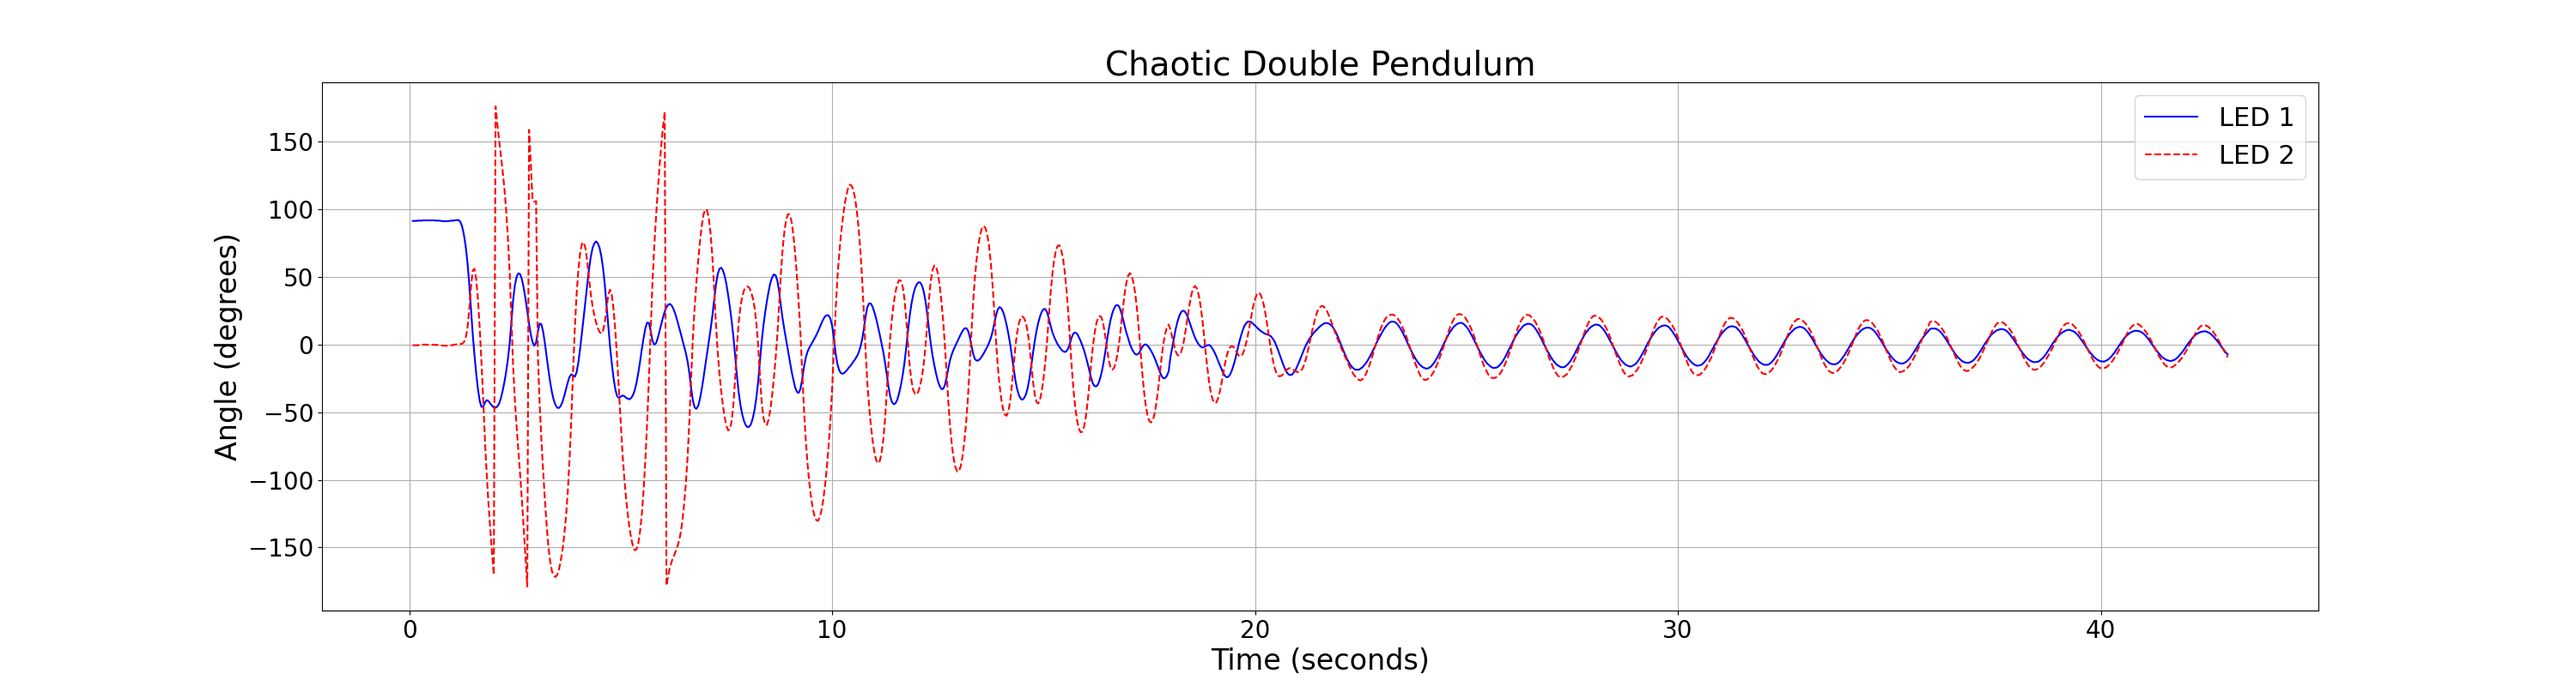
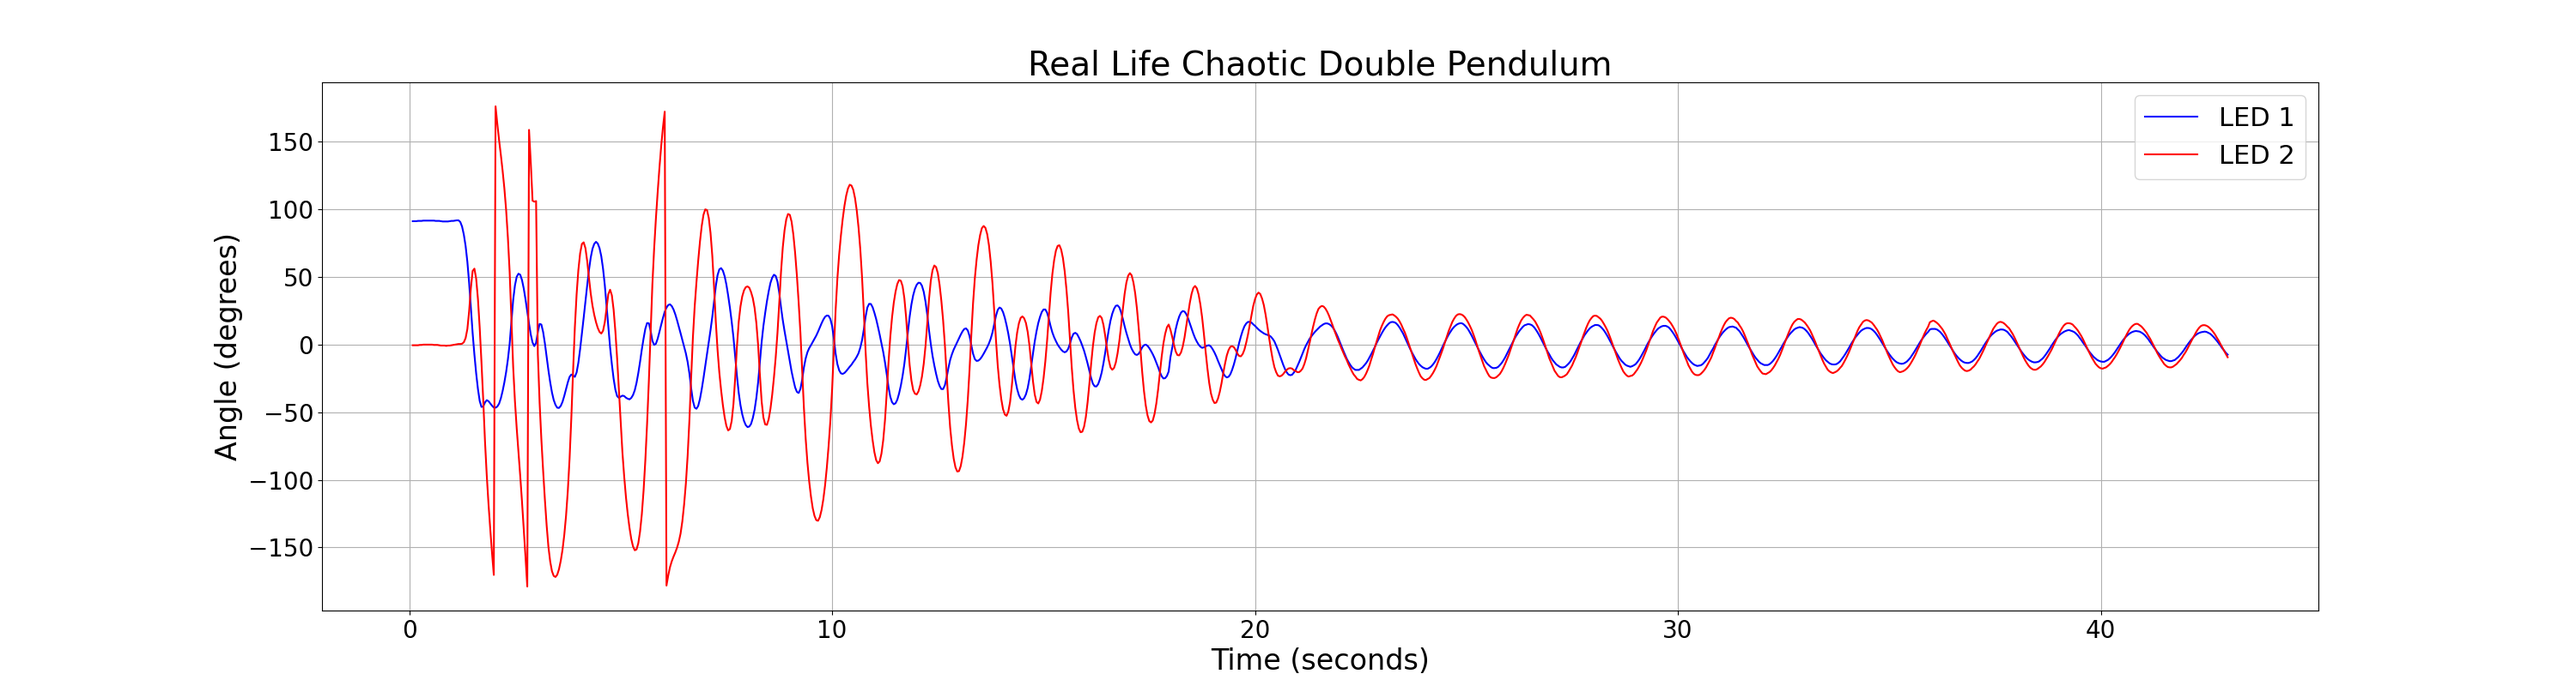
Changed the graphs to look pretty!

Changed region(s): [[0.403, 0.0625, 0.62, 0.125]]

diff --git a/Verification/verificiation.py b/Verification/verificiation.py
@@ -7,7 +7,7 @@ from typing import Tuple, List, NamedTuple, Dict, Any
 from scipy.optimize import curve_fit
 
 CONFIG = {
-    "title": "Verification of the Simulation with Respect to Real Life",
+    "title": "Fourier-based Deviation of the Simulation with Respect to Real Life",
     "path_to_data": "C:\\Users\\adamf\\Downloads\\",
     "sim_data_name": "simulation_45df02e102a7b311c45a387d97d3856f720a1adcfb1d30d1a41ff66d88e170a0.txt",
     "vid_data_name": "DSC_0058.txt",
@@ -143,13 +143,15 @@ def plot_deviation(arm1: List[PendulumData], arm2: List[PendulumData],
     vid_fit2 = fit_and_extend(vid_t2, vid_ang2, common_t)
     sim_fit2 = fit_and_extend(sim_t2, sim_ang2, common_t)
 
-    plt.figure(figsize=(24, 6))
+    plt.figure(figsize=(30, 8))
     plt.plot(common_t, vid_fit1 - sim_fit1, label="Arm 1 Deviation", color='b', alpha=0.7)
     plt.plot(common_t, vid_fit2 - sim_fit2, label="Arm 2 Deviation", color='r', alpha=0.7)
-    plt.xlabel("Time from Motion Start (seconds)")
-    plt.ylabel("Angle Difference (degrees)")
-    plt.title(f"{CONFIG['title']} - Fourier-based Deviation")
-    plt.legend()
+    plt.xlabel("Time from Motion Start (seconds)", fontsize=24)
+    plt.ylabel("Angle Difference (degrees)", fontsize=24)
+    plt.title(f"{CONFIG['title']}", fontsize=28)
+    plt.legend(fontsize=22)
+    plt.xticks(fontsize=20)
+    plt.yticks(fontsize=20)
     plt.grid(True)
     plt.savefig(f"{CONFIG['ver_outpath']}Fourier_Deviation_{CONFIG['title']}.png")
     plt.show()
@@ -182,22 +184,25 @@ def plot_fourier_comparison(vid_data: LEDData, sim_data: List[PendulumData],
     vid_coeffs, vid_fit = fit_fourier(vid_t, vid_ang, num_terms)
     sim_coeffs, sim_fit = fit_fourier(sim_t, sim_ang, num_terms)
 
-    fig, (ax1, ax2) = plt.subplots(2, 1, figsize=(24, 12), sharex=True)
+    fig, (ax1, ax2) = plt.subplots(2, 1, figsize=(30, 16), sharex=True)
     ax1.scatter(vid_t, vid_ang, s=10, color='blue', alpha=0.5, label='Video Data')
     ax1.plot(vid_t, vid_fit, 'r-', lw=2, label=f'Fourier Fit ({num_terms} terms)')
-    ax1.set_ylabel("Angle (degrees)")
-    ax1.legend()
+    ax1.set_ylabel("Angle (degrees)", fontsize=24)
+    ax1.legend(fontsize=22)
+    ax1.tick_params(axis='x', labelsize=20)
+    ax1.tick_params(axis='y', labelsize=20)
     ax1.grid(True)
     
     ax2.scatter(sim_t, sim_ang, s=10, color='green', alpha=0.5, label='Simulation Data')
     ax2.plot(sim_t, sim_fit, 'orange', lw=2, label=f'Fourier Fit ({num_terms} terms)')
-    ax2.set_xlabel("Time from Motion Start (seconds)")
-    ax2.set_ylabel("Angle (degrees)")
-    ax2.legend()
+    ax2.set_xlabel("Time from Motion Start (seconds)", fontsize=24)
+    ax2.set_ylabel("Angle (degrees)", fontsize=24)
+    ax2.legend(fontsize=22)
+    ax2.tick_params(axis='x', labelsize=20)
+    ax2.tick_params(axis='y', labelsize=20)
     ax2.grid(True)
     
-
-    plt.suptitle(f"Arm {arm_num} - Fourier Series Comparison")
+    plt.suptitle(f"Arm {arm_num} - Fourier Series", fontsize=28)
     plt.tight_layout()
     plt.savefig(f"{CONFIG['ver_outpath']}Fourier_Comparison_Arm{arm_num}.png")
     plt.show()

diff --git a/Simulations/simulation.py b/Simulations/simulation.py
@@ -9,7 +9,7 @@ import json
 import hashlib
 
 CONFIG = {
-    "title": "Chaotic Pendulum Oscillation",
+    "title": "Chaotic Double Pendulum",
     "sim_outpath": "./Simulations/sim_outfiles/",
     "path_to_data": "C:\\Users\\adamf\\Downloads\\",
     "params": {
@@ -177,7 +177,7 @@ def process_pendulum_data(solution: dict) -> Tuple[List[PendulumData], List[Pend
     return arm1_data, arm2_data
 
 def plot_angle_comparison(arm1: List[PendulumData], arm2: List[PendulumData]) -> None:
-    plt.figure(figsize=(24, 6))
+    plt.figure(figsize=(30, 8))
     plt.plot(
         [d.time for d in arm1], [math.degrees(d.angle) for d in arm1], 
         label="Arm 1", color='b'
@@ -187,10 +187,12 @@ def plot_angle_comparison(arm1: List[PendulumData], arm2: List[PendulumData]) ->
         label="Arm 2", color='r'
     )
 
-    plt.xlabel("Time (seconds)")
-    plt.ylabel("Angle (degrees)")
-    plt.title(f"Angle Comparison - {CONFIG['title']}")
-    plt.legend()
+    plt.xlabel("Time (seconds)", fontsize=24)
+    plt.ylabel("Angle (degrees)", fontsize=24)
+    plt.title(f"Simulated {CONFIG['title']}", fontsize=28)
+    plt.legend(fontsize=22)
+    plt.xticks(fontsize=20)
+    plt.yticks(fontsize=20)
     plt.grid(True)
     plt.savefig(f"{CONFIG['sim_outpath']}Angle Comparison - {CONFIG['title']}.png")
     plt.show()

diff --git a/VideoProcessing/VideoProcessing.py b/VideoProcessing/VideoProcessing.py
@@ -9,7 +9,7 @@ from typing import Tuple, List, Optional
 CONFIG = {
     "video_name": "DSC_0058",
     "brightness_value": 245,
-    "graph_title": "Physical Pendulum",
+    "graph_title": "Chaotic Double Pendulum",
     "path_to_videos": "C:\\Users\\adamf\\OneDrive\\Desktop\\IPL\\Double Pendulum\\Videos\\",
     "path_to_data": "C:\\Users\\adamf\\Downloads\\",
     "proc_outpath": "./VideoProcessing/processing_outfiles/",
@@ -192,7 +192,7 @@ def plot_comparison(data1: LEDData, data2: LEDData) -> None:
     plt.plot([d[0] for d in data2], [math.degrees(d[1]) for d in data2], color='r', label='LED 2')
     plt.xlabel("Time (seconds)", fontsize=24)
     plt.ylabel("Angle (degrees)", fontsize=24)
-    plt.title(CONFIG["graph_title"], fontsize=28)
+    plt.title(f"Real Life {CONFIG['graph_title']}", fontsize=28)
     plt.legend(fontsize=22)
     plt.xticks(fontsize=20)
     plt.yticks(fontsize=20)
